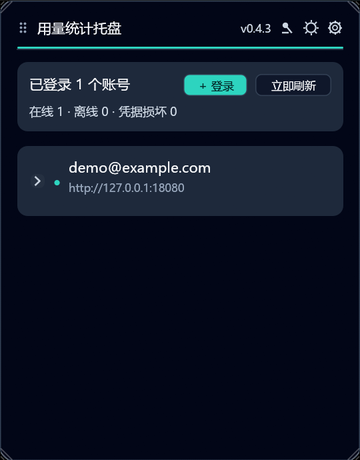
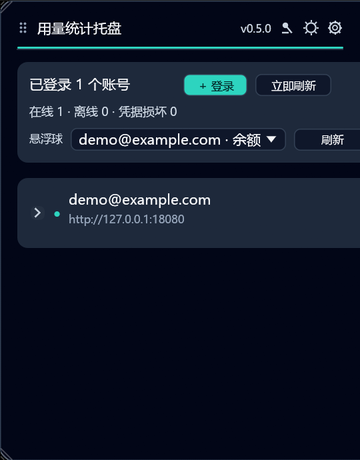
chore(release): 发布 v0.5.0
版本升至 0.5.0；README 汇总桌面悬浮球、DeepSeek 奖励金额、金额格式与拖动热区更新；使用固定演示账号重新生成界面截图。

Changed region(s): [[0.0306, 0.0, 1.0, 1.0], [0.7028, 0.0304, 0.7639, 0.0913]]

diff --git a/AGENTS.md b/AGENTS.md
@@ -38,6 +38,7 @@
 | 10 | 桌面悬浮球：托盘菜单开关与主账号/主 Key 选择、置顶常驻、贴边收起、后台刷新 | ✅ 已完成（0034） |
 | 11 | DeepSeek 奖励金额：解析并展示赠送/充值余额 | ✅ 已完成（0035） |
 | 12 | 悬浮球尺寸与更新气泡：小/中/大三档、数据变化气泡动画 | ✅ 已完成（0036） |
+| 13 | v0.5.0 发布：桌面悬浮球、DeepSeek 奖励金额、金额格式、标题栏拖动热区 | ✅ 已完成（0037，已合入 dev） |
 
 **现阶段明确的非目标**（不要顺手做）：
 
@@ -482,3 +483,4 @@ cargo build --release                  # 产物：target/release/sub2api_tray
 | 2026-10-23 | 金额千分位格式 | 统一余额、Key 额度与奖励金额的千分位展示，和网页端 `$9,999,579.62` 格式对齐 |
 | 2026-10-23 | 悬浮球尺寸与气泡 | 设置页新增小/中/大三档尺寸；数据变化时从球体底部升起 4 个曲线气泡并淡出 |
 | 2026-10-23 | 标题栏拖动热区 | 标题栏左侧抓手到右侧工具按钮之间的整个区域都可拖动窗口 |
+| 2026-10-23 | 发布 v0.5.0 | 版本升至 0.5.0；汇总桌面悬浮球、DeepSeek 奖励/充值余额、金额千分位、标题栏拖动热区与 README 演示截图更新 |

diff --git a/docs/plans/0037-v0.5.0-release.md b/docs/plans/0037-v0.5.0-release.md
@@ -1,0 +1,43 @@
+# 0037 v0.5.0 发布
+
+| 字段 | 内容 |
+| --- | --- |
+| 编号 | 0037 |
+| 分支 | `release/v0.5.0` |
+| 状态 | 已完成 |
+| 提出日期 | 2026-10-23 |
+
+## 一、目标
+
+将 v0.4.3 后累计完成的桌面悬浮球能力收敛为 v0.5.0，并用固定演示账号刷新 README 截图。
+
+## 二、版本内容
+
+* 桌面悬浮球：托盘菜单/主面板选择主账号或主 Key、置顶常驻、拖拽、四边停靠收起；
+* 悬浮球小/中/大三档尺寸；
+* 数据变化时的气泡上浮淡出动画；
+* DeepSeek 奖励/充值余额展示；
+* 金额千分位格式；
+* 标题栏整段拖动热区；
+* 托盘主 Key 菜单二级缩进。
+
+## 三、发布操作
+
+* `Cargo.toml` / `Cargo.lock` 版本升至 `0.5.0`；
+* README 当前版本、最近更新与 tag 示例更新为 v0.5.0；
+* 使用 `testdata/demo` 固定演示账号重新生成：
+  - `docs/panel-preview.png`
+  - `docs/panel-collapsed.png`
+* 推送 `origin/release/v0.5.0` 与 `origin/dev`。
+
+## 四、验证
+
+* `cargo fmt`
+* `cargo clippy --all-targets -- -D warnings`
+* `cargo test`：134 passed，8 ignored
+* `cargo build --release`
+
+## 五、结果
+
+* 完成日期：2026-10-23
+* 版本：v0.5.0
